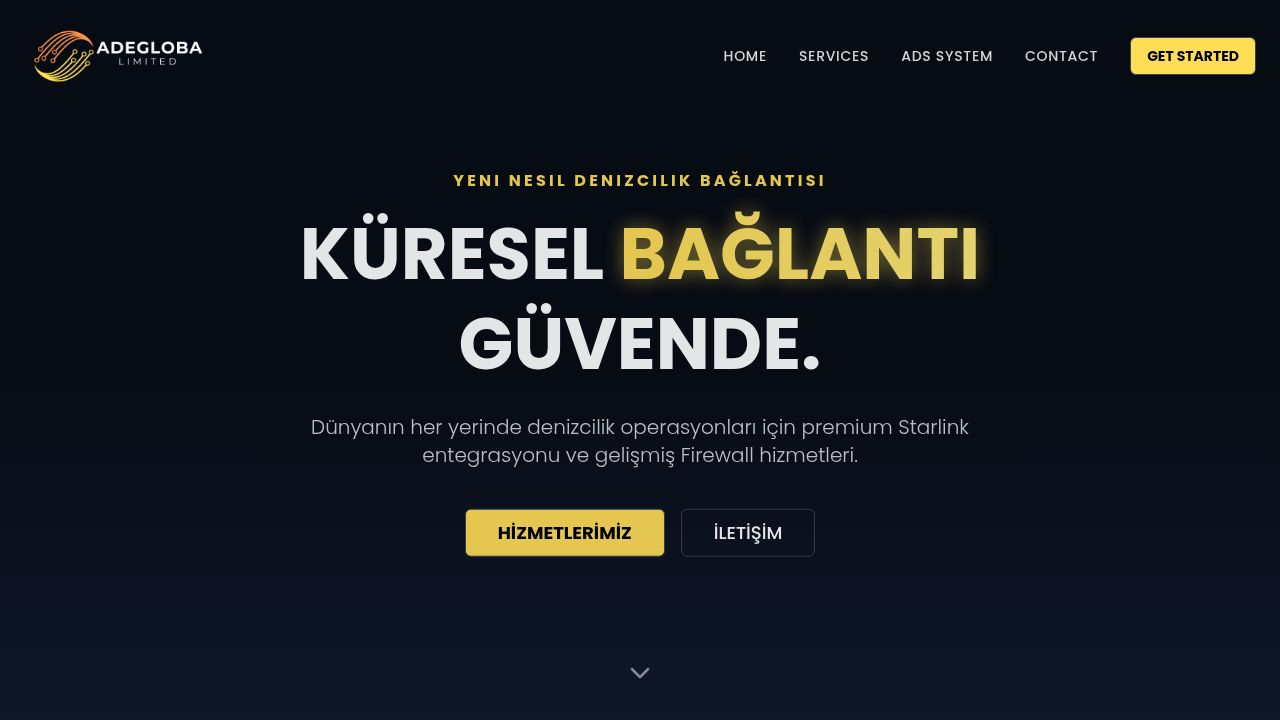
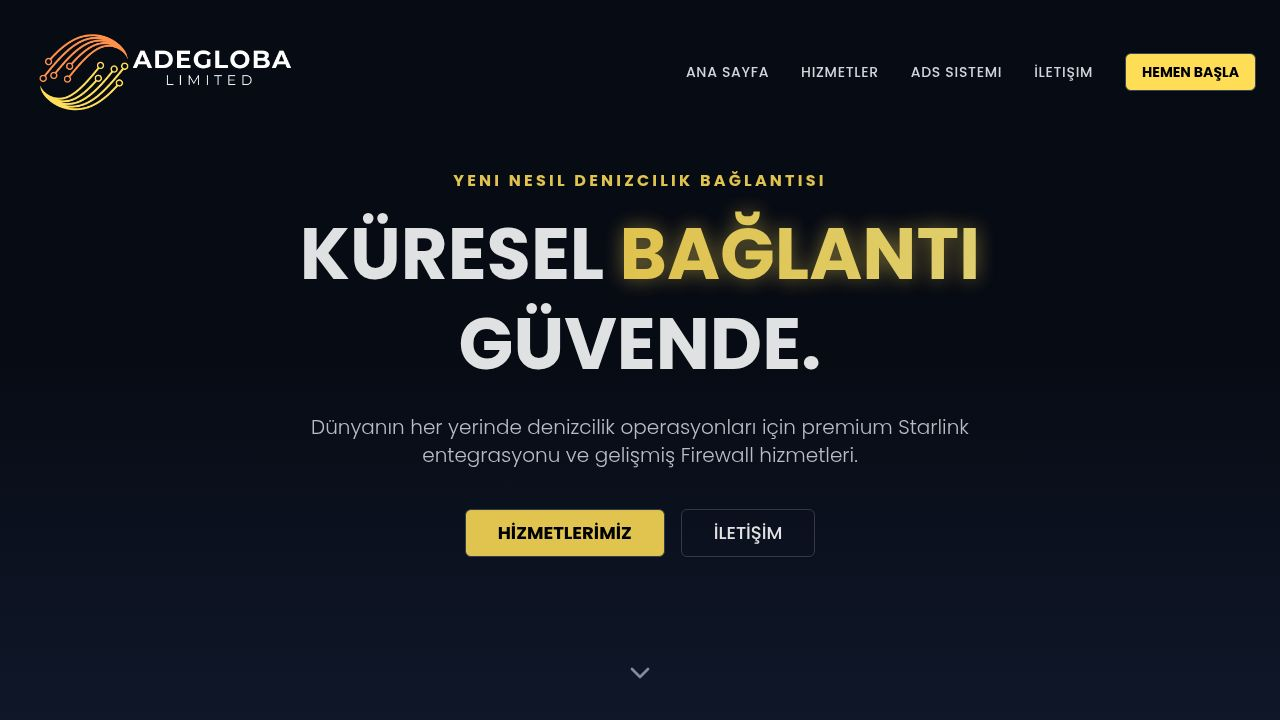
Translate the entire website content to Turkish
Update text content in Navbar, Contact, and Footer components to Turkish.

Replit-Commit-Author: Agent
Replit-Commit-Session-Id: 85aac50e-d347-4dd1-9500-caeef47094c4
Replit-Commit-Checkpoint-Type: full_checkpoint
Replit-Commit-Event-Id: e48b0fa4-0291-441b-b9ae-0124ed6a91d3
Replit-Commit-Screenshot-Url: https://storage.googleapis.com/screenshot-production-us-central1/f4b563ad-961b-42ce-a373-e4a50b073058/85aac50e-d347-4dd1-9500-caeef47094c4/IiTmRmx
Replit-Helium-Checkpoint-Created: true

diff --git a/client/src/components/contact.tsx b/client/src/components/contact.tsx
@@ -6,8 +6,8 @@ export default function Contact() {
     <section id="contact" className="py-24 bg-background relative border-t border-white/5">
       <div className="container mx-auto px-6">
         <div className="text-center mb-16">
-          <h2 className="text-primary font-bold tracking-[0.2em] mb-2 uppercase">Get In Touch</h2>
-          <h3 className="text-3xl md:text-4xl font-bold text-white font-display">Contact Us</h3>
+          <h2 className="text-primary font-bold tracking-[0.2em] mb-2 uppercase">Bize Ulaşın</h2>
+          <h3 className="text-3xl md:text-4xl font-bold text-white font-display">İletişim Bilgileri</h3>
         </div>
 
         <div className="grid md:grid-cols-2 lg:grid-cols-4 gap-6">
@@ -16,7 +16,7 @@ export default function Contact() {
               <div className="w-12 h-12 rounded-full bg-primary/10 flex items-center justify-center mb-4">
                 <MapPin className="text-primary w-6 h-6" />
               </div>
-              <h4 className="text-white font-bold mb-2">Our Office</h4>
+              <h4 className="text-white font-bold mb-2">Ofisimiz</h4>
               <p className="text-gray-400 text-sm">
                 71 - 75 Shelton Street<br />
                 London, WC2H 9JQ<br />
@@ -30,7 +30,7 @@ export default function Contact() {
               <div className="w-12 h-12 rounded-full bg-primary/10 flex items-center justify-center mb-4">
                 <Mail className="text-primary w-6 h-6" />
               </div>
-              <h4 className="text-white font-bold mb-2">Email Us</h4>
+              <h4 className="text-white font-bold mb-2">E-posta</h4>
               <a href="mailto:starlink@adegloba.space" className="text-gray-400 text-sm hover:text-primary transition-colors">
                 starlink@adegloba.space
               </a>
@@ -42,7 +42,7 @@ export default function Contact() {
               <div className="w-12 h-12 rounded-full bg-primary/10 flex items-center justify-center mb-4">
                 <Phone className="text-primary w-6 h-6" />
               </div>
-              <h4 className="text-white font-bold mb-2">Call Us</h4>
+              <h4 className="text-white font-bold mb-2">Telefon</h4>
               <a href="tel:+447440225375" className="text-gray-400 text-sm hover:text-primary transition-colors">
                 +44 7440 225 375
               </a>
@@ -54,10 +54,10 @@ export default function Contact() {
               <div className="w-12 h-12 rounded-full bg-primary/10 flex items-center justify-center mb-4">
                 <Clock className="text-primary w-6 h-6" />
               </div>
-              <h4 className="text-white font-bold mb-2">Support</h4>
+              <h4 className="text-white font-bold mb-2">Destek</h4>
               <p className="text-gray-400 text-sm">
-                24/7 Monitoring &<br />
-                Technical Support
+                7/24 İzleme &<br />
+                Teknik Destek
               </p>
             </CardContent>
           </Card>

diff --git a/client/src/components/footer.tsx b/client/src/components/footer.tsx
@@ -8,19 +8,19 @@ export default function Footer() {
         <div className="flex flex-col md:flex-row justify-between items-center gap-6">
           <div className="text-center md:text-left">
              <img src={logoUrl} alt="Adegloba Space" className="h-12 w-auto mb-4" />
-             <p className="text-gray-500 text-sm">Connecting the world, securing your data.</p>
+             <p className="text-gray-500 text-sm">Dünyayı birbirine bağlıyor, verilerinizi koruyoruz.</p>
           </div>
           
           <div className="flex gap-6 text-sm text-gray-400">
-            <a href="#" className="hover:text-primary transition-colors">Privacy Policy</a>
-            <a href="#" className="hover:text-primary transition-colors">Terms of Service</a>
+            <a href="#" className="hover:text-primary transition-colors">Gizlilik Politikası</a>
+            <a href="#" className="hover:text-primary transition-colors">Hizmet Şartları</a>
           </div>
         </div>
         
         <Separator className="my-8 bg-white/5" />
         
         <div className="text-center text-gray-600 text-sm">
-          &copy; {new Date().getFullYear()} Adegloba Space. All rights reserved.
+          &copy; {new Date().getFullYear()} Adegloba Space. Tüm hakları saklıdır.
         </div>
       </div>
     </footer>

diff --git a/client/src/components/navbar.tsx b/client/src/components/navbar.tsx
@@ -18,10 +18,10 @@ export default function Navbar() {
   }, []);
 
   const navLinks = [
-    { name: "Home", href: "#" },
-    { name: "Services", href: "#services" },
-    { name: "ADS System", href: "#app" },
-    { name: "Contact", href: "#contact" },
+    { name: "Ana Sayfa", href: "#" },
+    { name: "Hizmetler", href: "#services" },
+    { name: "ADS Sistemi", href: "#app" },
+    { name: "İletişim", href: "#contact" },
   ];
 
   const scrollToSection = (id: string) => {
@@ -59,7 +59,7 @@ export default function Navbar() {
             onClick={() => scrollToSection('#contact')}
             className="bg-primary text-black hover:bg-primary/90 font-bold"
           >
-            GET STARTED
+            HEMEN BAŞLA
           </Button>
         </div>
 
@@ -88,7 +88,7 @@ export default function Navbar() {
             onClick={() => scrollToSection('#contact')}
             className="w-full bg-primary text-black hover:bg-primary/90 font-bold"
           >
-            GET STARTED
+            HEMEN BAŞLA
           </Button>
         </div>
       )}
